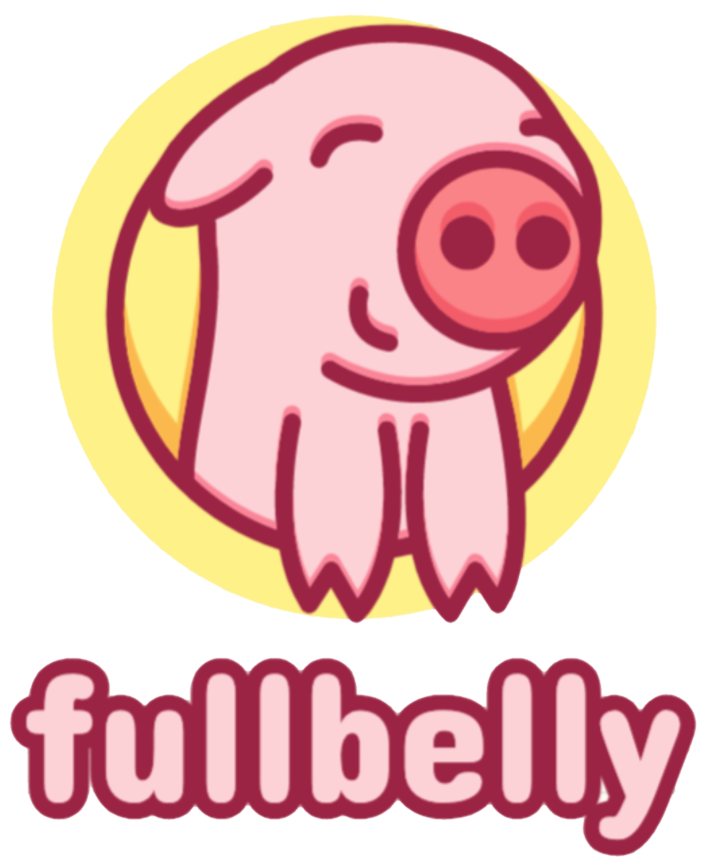
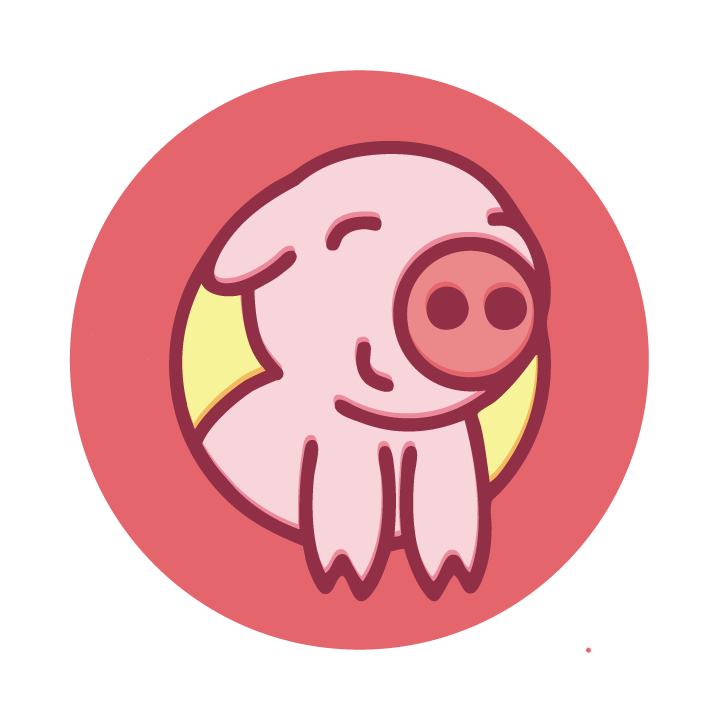
add slogan

diff --git a/ClientApp/src/styles/Home.css b/ClientApp/src/styles/Home.css
@@ -1,7 +1,17 @@
+@import url('https://fonts.googleapis.com/css2?family=Titan+One&display=swap');
+
 .main-logo {
-  width: 30%;
-  position: absolute;
-  top: 50%;
-  left: 50%;
-  transform: translate(-50%, -50%);
+  Display: flex;
+  Width: 525px;
+  margin: -5% 0 0 30%; 
+  Align-Items: center;
+  Justify-Content: center;
+}
+
+.slogan {
+  text-align: center;
+  font-family: 'Titan One', cursive;
+  text-shadow: 2px 2px 4px maroon;
+
+  color: #eabebe;
 }

diff --git a/ClientApp/src/components/App.js b/ClientApp/src/components/App.js
@@ -1,5 +1,6 @@
 import React from 'react';
 import DonationControl from './DonationControl';
+import Footer from './Footer';
 import Header from './Header';
 import { Jumbotron } from 'react-bootstrap';
 import './../styles/App.css'
@@ -15,6 +16,7 @@ export default function App() {
     <Header />
     <Jumbotron className="jumbotron">
       <DonationControl />
+      <Footer />
     </Jumbotron>
     </>
   );

diff --git a/ClientApp/src/components/Home.js b/ClientApp/src/components/Home.js
@@ -10,6 +10,7 @@ export default function Home() {
         alt=""
         src={Piggy}
         />
+        <h1 className="slogan">every positive change begins with a fullbelly</h1>
     </>
   )
 }

diff --git a/ClientApp/src/components/Footer.js b/ClientApp/src/components/Footer.js
@@ -1,0 +1,10 @@
+import React from 'react';
+
+export default function Footer() {
+
+  return (
+    <>
+      Guten Tag!
+    </>
+  )
+}
